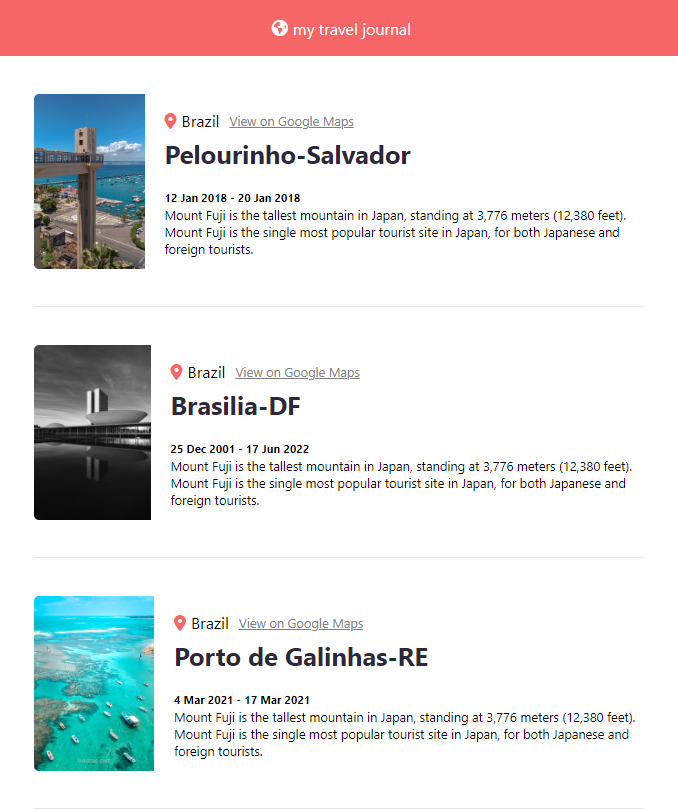
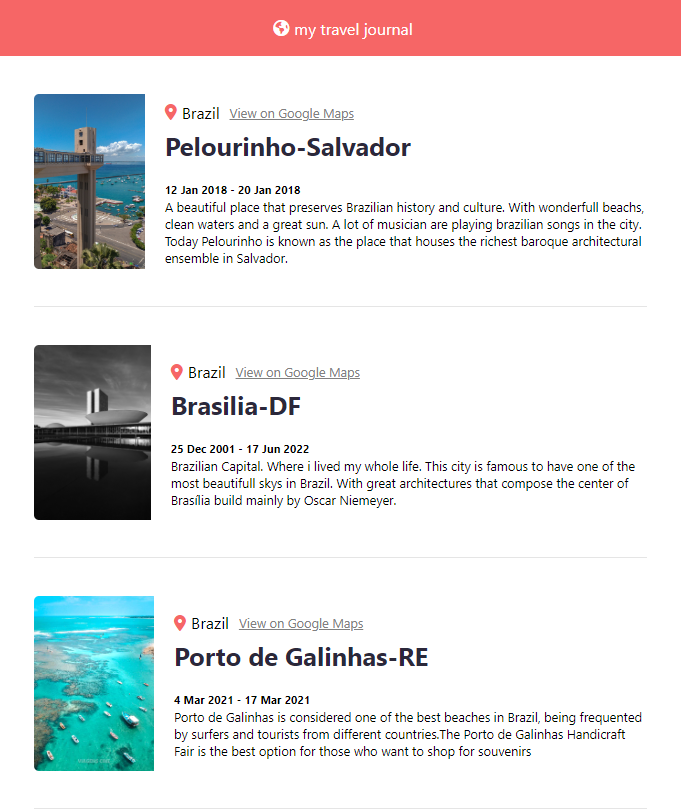
new screen photo

diff --git a/src/data.js b/src/data.js
@@ -8,7 +8,7 @@ export default[
             city:"Pelourinho-Salvador",
             link:"https://goo.gl/maps/XSBdWsZgawNxLsGg6"
         },
-        description:"Mount Fuji is the tallest mountain in Japan, standing at 3,776 meters (12,380 feet). Mount Fuji is the single most popular tourist site in Japan, for both Japanese and foreign tourists.",
+        description:"A beautiful place that preserves Brazilian history and culture. With wonderfull beachs, clean waters and a great sun. A lot of musician are playing brazilian songs in the city. Today Pelourinho is known as the place that houses the richest baroque architectural ensemble in Salvador.",
         date:{
             startDay:12,
             startMonth:"Jan",
@@ -27,7 +27,7 @@ export default[
             city:"Brasilia-DF",
             link:"https://goo.gl/maps/AoeTpwSoJUB47oCd6"
         },
-        description:"Mount Fuji is the tallest mountain in Japan, standing at 3,776 meters (12,380 feet). Mount Fuji is the single most popular tourist site in Japan, for both Japanese and foreign tourists.",
+        description:"Brazilian Capital. Where i lived my whole life. This city is famous to have one of the most beautifull skys in Brazil. With great architectures that compose the center of Brasília build mainly by Oscar Niemeyer.",
         date:{
             startDay:25,
             startMonth:"Dec",
@@ -46,7 +46,7 @@ export default[
             city:"Porto de Galinhas-RE",
             link:"https://goo.gl/maps/JZJDpjjKknQswm879"
         },
-        description:"Mount Fuji is the tallest mountain in Japan, standing at 3,776 meters (12,380 feet). Mount Fuji is the single most popular tourist site in Japan, for both Japanese and foreign tourists.",
+        description:"Porto de Galinhas is considered one of the best beaches in Brazil, being frequented by surfers and tourists from different countries.The Porto de Galinhas Handicraft Fair is the best option for those who want to shop for souvenirs",
         date:{
             startDay:4,
             startMonth:"Mar",
